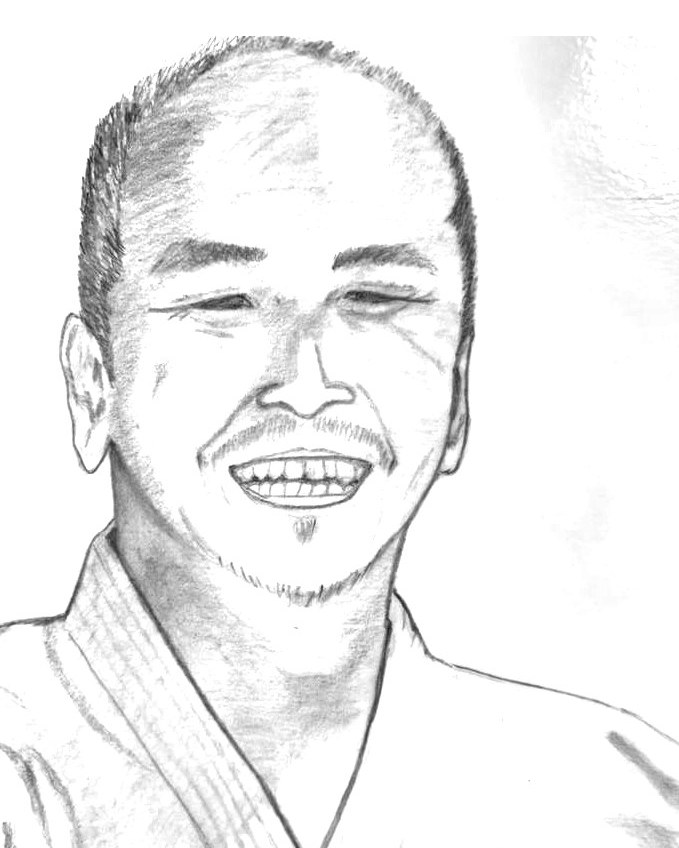
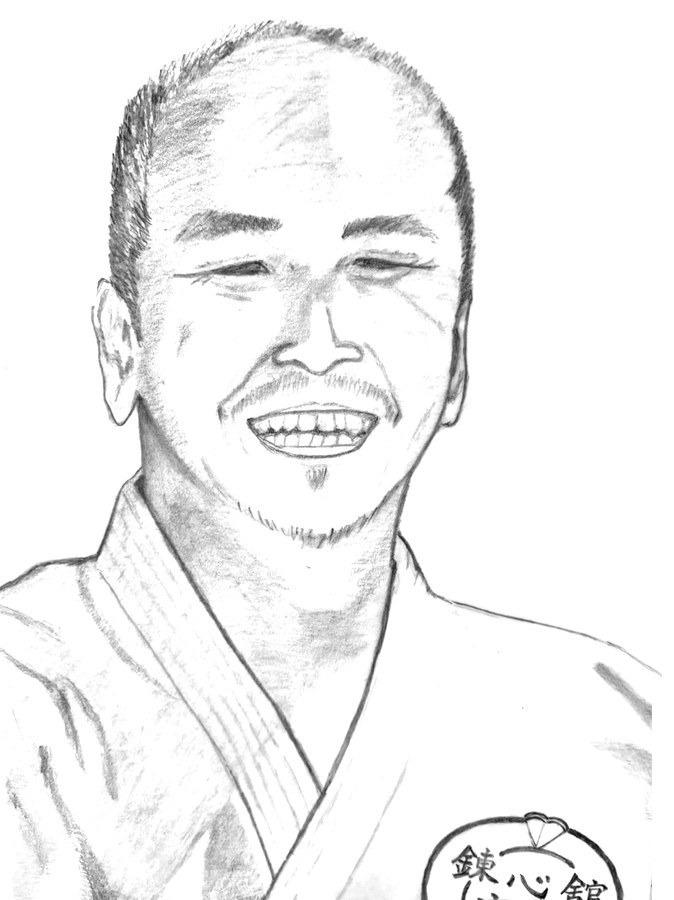
Sensei sketch re-cropped from original: gi crest restored, top-right smudge removed
Claude-Session: https://claude.ai/code/session_01UKT9cRBq2MNrJkEXfPuNYV

diff --git a/index.html b/index.html
@@ -139,7 +139,7 @@ section,#top,#contact{scroll-margin-top:96px}
 .safety p{color:var(--ink-soft);font-size:.95rem}
 .sensei{display:grid;grid-template-columns:240px 1fr;gap:36px;align-items:start}
 .sensei .pic{margin:0;max-width:100%;background:#fff;padding:10px;border:1px solid var(--line);border-radius:2px;box-shadow:0 2px 10px rgba(0,0,0,.06)}
-.sensei .pic img{display:block;width:100%;aspect-ratio:4/5;object-fit:cover}
+.sensei .pic img{display:block;width:100%;height:auto;aspect-ratio:674/900;object-fit:cover}
 .sensei .msg{display:flex;flex-direction:column;gap:18px;max-width:38em;min-width:0}
 .sensei .role{font-size:.8rem;font-weight:700;color:var(--maroon);letter-spacing:.06em}
 .sensei .name{font-family:var(--f-display);font-size:1.9rem;font-weight:800;line-height:1.5}
